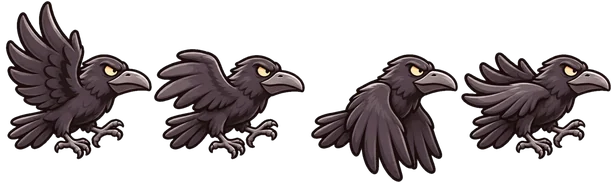
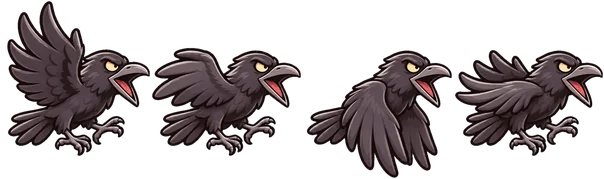
Corvo: nuovo volo e animazione d'attacco (beccata)
Claude-Session: https://claude.ai/code/session_01HfaWZ85fbzKyRqfxnb746i

diff --git a/index.html b/index.html
@@ -1307,7 +1307,7 @@ const IMG={};
 const ANIM={
   faina:{h:31,stride:7,walk:{n:4,fw:153,fh:131,ax:.5},atk:{n:4,fw:167,fh:130,ax:.516}},
   mucca:{h:40,stride:6,walk:{n:4,fw:176,fh:134,ax:.5},atk:{n:4,fw:191,fh:139,ax:.459}},
-  corvo:{h:40,fly:{n:4,fw:153,fh:183,ax:.994,ox:62}},
+  corvo:{h:40,fly:{n:4,fw:151,fh:179,ax:.994,ox:62},atk:{n:4,fw:164,fh:173,ax:.994,ox:62}},
 };
 // file: icons/anim/<personaggio>-walk|atk|fly.webp; ax = punto d'aggancio nel fotogramma (0 sinistra, 1 destra), ox = suo spostamento dal centro (px a scala 128)
 for(const k in ANIM)for(const m of ['walk','atk','fly'])if(ANIM[k][m]){const a=ANIM[k][m];a.im=new Image();a.im.src=`icons/anim/${k}-${m}.webp`}

diff --git a/sw.js b/sw.js
@@ -2,7 +2,7 @@
 // Pagina e script: prima la rete (così gli aggiornamenti arrivano subito), poi la copia salvata.
 // Immagini: prima la copia salvata. Quando cambi immagini già esistenti, aumenta VERSION.
 // tools/test-pwa.js controlla che tutte le icone siano in PRECACHE.
-const VERSION='ff-v1';
+const VERSION='ff-v2';
 const PRECACHE=[
  "./",
  "index.html",
@@ -33,6 +33,7 @@ const PRECACHE=[
  "icons/coltivatore.webp",
  "icons/corvo.webp",
  "icons/faina.webp",
+ "icons/anim/corvo-atk.webp",
  "icons/anim/corvo-fly.webp",
  "icons/anim/faina-atk.webp",
  "icons/anim/faina-walk.webp",
